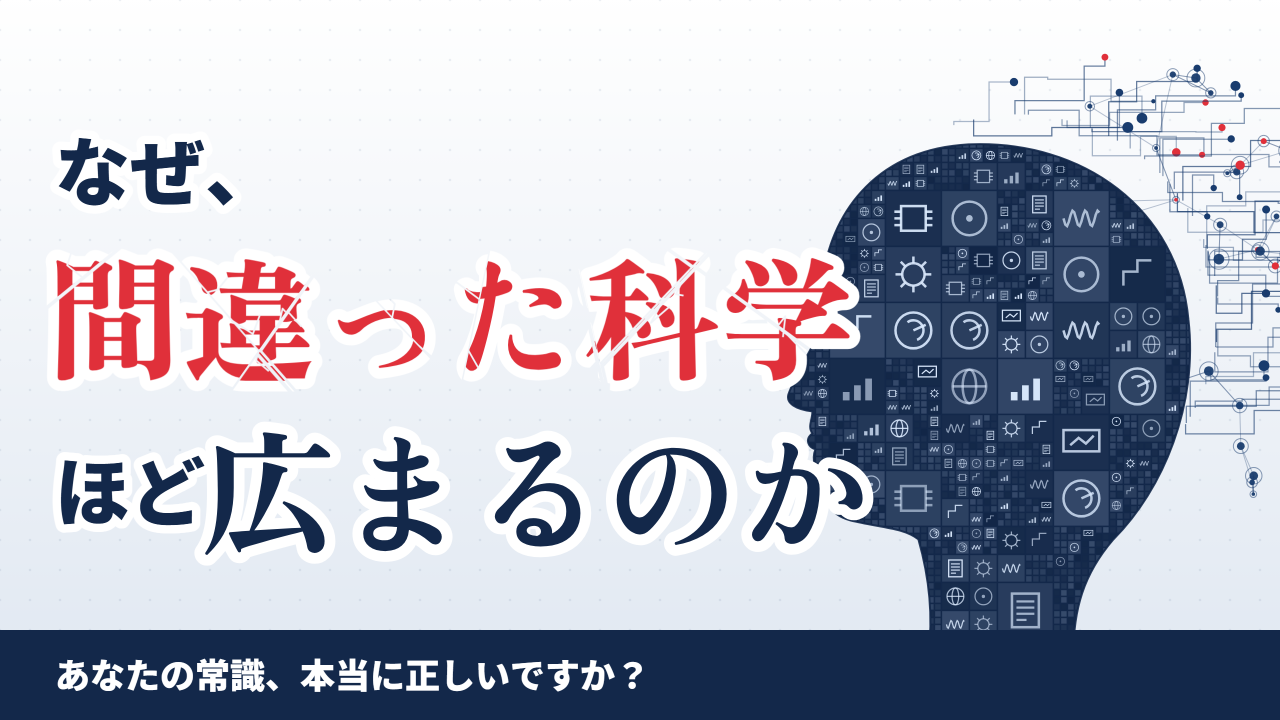
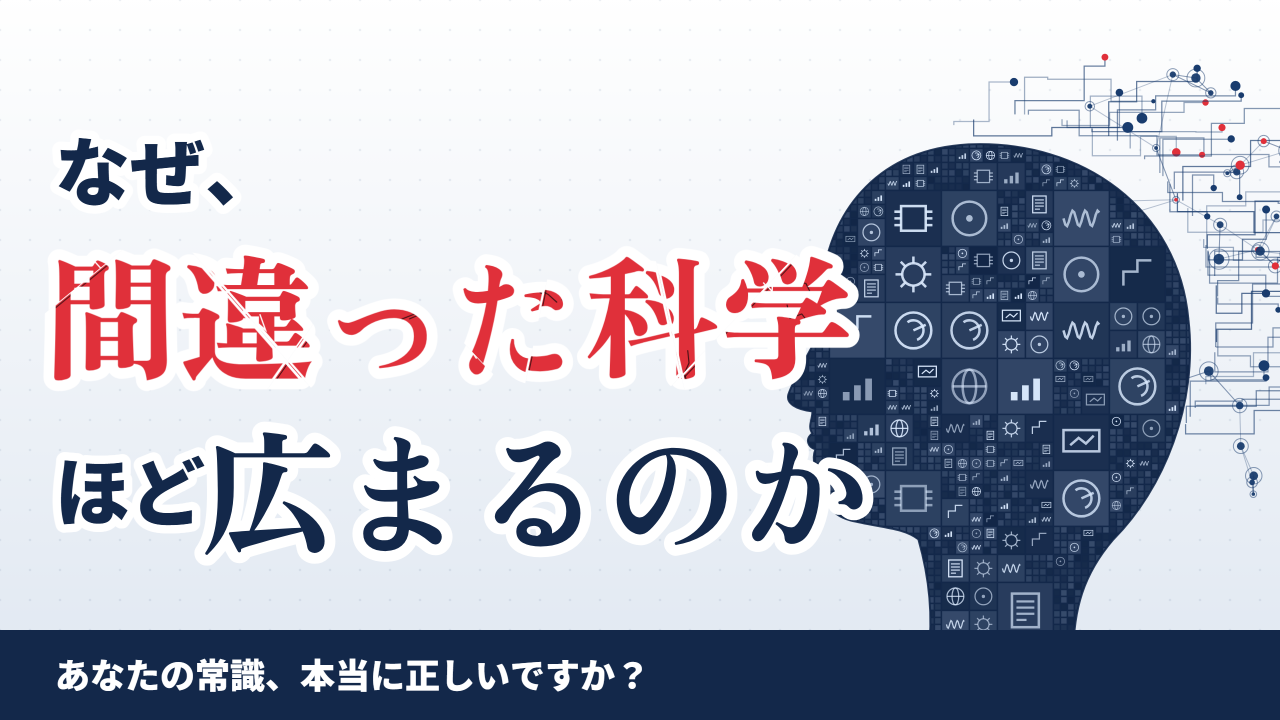
long_001：サムネイルのひび割れをさらに弱め、文字の本体に黒いひびを混ぜる

diff --git a/anatomy_room/production/long_001/thumb/layouts.html b/anatomy_room/production/long_001/thumb/layouts.html
@@ -96,27 +96,35 @@ function word(s, x, y, size, fill, o = {}) {
 }
 // 割れた文字：文字を別の画に描き、ひびの線で切り抜き、かけらを少しずつずらして重ねる（白い背景ではひびが白く見える）
 function crackWord(s, x, y, size, fill, o = {}) {
+  // 白い縁取り（c）と、赤い文字の本体（fc）を分けて描き、ひびは本体だけに入れる
   const off = document.createElement("canvas"); off.width = W; off.height = H; const c = off.getContext("2d");
-  c.font = `${size}px ${o.font}`; c.textBaseline = "alphabetic"; c.lineJoin = "round";
+  const fo = document.createElement("canvas"); fo.width = W; fo.height = H; const fc = fo.getContext("2d");
+  c.font = fc.font = `${size}px ${o.font}`; c.textBaseline = fc.textBaseline = "alphabetic"; c.lineJoin = "round";
   const w = c.measureText(s).width;
   c.lineWidth = size * (o.ow || .16); c.strokeStyle = o.outer || "#ffffff"; c.strokeText(s, x, y);
-  c.fillStyle = fill; c.fillText(s, x, y);
+  fc.fillStyle = fill; fc.fillText(s, x, y);
   const lines = [], n = o.cracks || 7;
   for (let i = 0; i < n; i++) {
     const px = x + (i + .5 + (rnd() - .5) * .5) / n * w, py = y - size * (.15 + rnd() * .65), ang = (i % 2 ? .32 : -.32) * Math.PI + (rnd() - .5) * .8;
     lines.push({ px, py, dx: Math.cos(ang), dy: Math.sin(ang) });
   }
-  c.globalCompositeOperation = "destination-out"; c.lineWidth = size * .026;
-  lines.forEach(L => { c.beginPath(); c.moveTo(L.px - L.dx * 3000, L.py - L.dy * 3000); c.lineTo(L.px + L.dx * 3000, L.py + L.dy * 3000); c.stroke(); });
-  // 細かいひびの枝
-  c.lineWidth = size * .013;
-  for (let i = 0; i < 16; i++) { const L = lines[i % n], t0 = (rnd() - .5) * size * 1.2; let bx = L.px + L.dx * t0, by = L.py + L.dy * t0; c.beginPath(); c.moveTo(bx, by); for (let k = 0; k < 2; k++) { bx += (rnd() - .5) * size * .35; by += (rnd() - .5) * size * .35; c.lineTo(bx, by); } c.stroke(); }
-  c.globalCompositeOperation = "source-over";
+  // 白いひび（本体を切り抜く）
+  fc.globalCompositeOperation = "destination-out"; fc.lineWidth = size * .02;
+  lines.forEach(L => { fc.beginPath(); fc.moveTo(L.px - L.dx * 3000, L.py - L.dy * 3000); fc.lineTo(L.px + L.dx * 3000, L.py + L.dy * 3000); fc.stroke(); });
+  fc.lineWidth = size * .01;
+  for (let i = 0; i < 10; i++) { const L = lines[i % n], t0 = (rnd() - .5) * size * 1.2; let bx = L.px + L.dx * t0, by = L.py + L.dy * t0; fc.beginPath(); fc.moveTo(bx, by); for (let k = 0; k < 2; k++) { bx += (rnd() - .5) * size * .35; by += (rnd() - .5) * size * .35; fc.lineTo(bx, by); } fc.stroke(); }
+  // 黒いひび（本体の上だけ）
+  fc.globalCompositeOperation = "source-atop"; fc.strokeStyle = "rgba(25,8,10,0.8)"; fc.lineCap = "round";
+  lines.forEach((L, i) => { if (i % 2) return; const d = size * .022; fc.lineWidth = size * .007; fc.beginPath(); fc.moveTo(L.px - L.dx * 3000 - L.dy * d, L.py - L.dy * 3000 + L.dx * d); fc.lineTo(L.px + L.dx * 3000 - L.dy * d, L.py + L.dy * 3000 + L.dx * d); fc.stroke(); });
+  fc.lineWidth = size * .008;
+  for (let i = 0; i < 10; i++) { let bx = x + rnd() * w, by = y - size * (.1 + rnd() * .7); fc.beginPath(); fc.moveTo(bx, by); for (let k = 0; k < 3; k++) { bx += (rnd() - .5) * size * .2; by += (rnd() - .5) * size * .2; fc.lineTo(bx, by); } fc.stroke(); }
+  fc.globalCompositeOperation = "source-over";
+  c.drawImage(fo, 0, 0);
   const use = lines.slice(0, 7);
   for (let k = 0; k < (1 << use.length); k++) {
     g.save();
     use.forEach((L, i) => { const sd = (k >> i) & 1 ? 1 : -1, nx = -L.dy * sd, ny = L.dx * sd, R = 6000; g.beginPath(); g.moveTo(L.px - L.dx * R, L.py - L.dy * R); g.lineTo(L.px + L.dx * R, L.py + L.dy * R); g.lineTo(L.px + L.dx * R + nx * R, L.py + L.dy * R + ny * R); g.lineTo(L.px - L.dx * R + nx * R, L.py - L.dy * R + ny * R); g.closePath(); g.clip(); });
-    g.drawImage(off, (rnd() - .5) * size * .045, (rnd() - .5) * size * .045); g.restore();
+    g.drawImage(off, (rnd() - .5) * size * .03, (rnd() - .5) * size * .03); g.restore();
   }
 }
 function vword(s, x, y, size, fill, o = {}) { [...s].forEach((ch, i) => { const r = "ー、".includes(ch); g.save(); g.translate(x, y + i * size * 1.02); if (r) { g.rotate(Math.PI / 2); } word(ch, 0, size * .38, size, fill, { ...o, align: "center" }); g.restore(); }); }
@@ -130,7 +138,7 @@ const LAYOUTS = {
     linear("#ffffff", "#dfe7f1", Math.PI / 2); dots("rgba(30,60,110,0.08)");
     head({ tile: [18, 38, 70], ink: "rgba(220,235,255,A)", base: "#13284a", edge: "rgba(19,40,74,0.9)", glow: 0, net: "rgba(25,60,110,A)", red: "#e0303a", cx: W * .78, cy: H * .52, s: 1.0 });
     word("なぜ、", 110, 400, 150, "#13284a", { inner: null, outer: "#ffffff", shadow: false });
-    crackWord("間違った科学", 90, 740, 270, "#e0303a", { font: "ZenAntique", outer: "#ffffff", ow: .16, cracks: 8 });
+    crackWord("間違った科学", 90, 740, 270, "#e0303a", { font: "ZenAntique", outer: "#ffffff", ow: .16, cracks: 7 });
     word("ほど", 110, 1040, 150, "#13284a", { inner: null, outer: "#ffffff", shadow: false });
     word("広まるのか", 400, 1090, 270, "#13284a", { font: "ZenAntique", outer: "#ffffff", ow: .16, inner: null, shadow: false });
     band(0, 1260, W, 180, "#13284a"); g.fillStyle = "#fff"; g.font = F.replace("%s", 70); g.textBaseline = "middle"; g.fillText("あなたの常識、本当に正しいですか？", 110, 1350);
